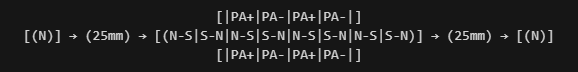
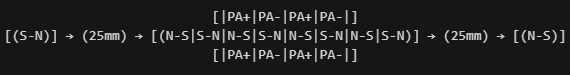
Upto simulation now

Changed region(s): [[0.0, 0.3889, 1.0, 0.6111], [0.3579, 0.6389, 0.6263, 0.8611], [0.3579, 0.1389, 0.6263, 0.3333]]

diff --git a/01_simulation/evaluator.py b/01_simulation/evaluator.py
@@ -19,7 +19,7 @@ from pyfea import Q, unit_validator, ampere, ohm, volt, second, meter, nullset
 
 from pyfea.domain.units import DynamicLoader
 from pyfea.solver.femm.domains.magnetostatic.solver import FEMMMagnetostaticSolver
-from pyfea.solver.solver_outputs import SolverOutputs, CircuitOptions
+from pyfea.solver.solver_outputs import SolverOutputs, CircuitOptions, ImageOptions
 
 from model.generator import AxialShakeGenerator
 
@@ -68,6 +68,7 @@ def simulate_rms_voltage(
     
     outputs = SolverOutputs()
     outputs.add_circuit(model.PHASE, CircuitOptions.flux_linkage)
+    outputs.add_image(ImageOptions.field_contour)
 
     results = magnetic.solve(outputs)
     old_flux_linkage = results[model.PHASE].flux_linkage

diff --git a/readme.md b/readme.md
@@ -82,3 +82,23 @@ This relationship drives one of the main trade-offs: increasing turns raises ind
   <img src="04_media/high_level_topology.png" alt="Generator high-level topology" style="max-width:600px;">
   <p><i>Figure 2: High level electrical machine topology</i></p>
 </div>
+
+> [!note]
+> `N-S` represents an axially magnetized permanent magnet pole. `PA` represents phase A, where `PA+` and `PA-` indicate opposite winding directions.
+
+The high-level topology in figure 2 was selected to enable oscillatory motion through magnetic restoring forces. The additional end poles act as magnetic springs, creating a restoring force when the armature approaches the limits of travel. This allows the armature to return towards the centre position after displacement.
+
+The alternating pole arrangement (`N-S|S-N`) was selected because the transition between opposing poles creates a rapid change in magnetic field along the z-axis, increasing the spatial rate of change of flux linkage:
+
+$$V \propto \frac{d\lambda}{dz}$$
+
+A pole pitch of `10 mm` was selected, matching the pole length and maintaining direct magnetic coupling between adjacent opposing poles. The topology uses four stator slots interacting with four active armature poles, with additional poles placed on each end of the armature to increase usable travel distance. This allows approximately `20 mm` of positive and negative armature displacement while maintaining magnetic coupling between the armature and stator.
+
+Maintaining slot overlap throughout the motion range produces a more consistent induced voltage waveform, where the primary amplitude is dominated by the mechanical velocity term:
+
+$$V \propto \frac{dz}{dt}$$
+
+The symmetric pole arrangement also reduces unwanted harmonic content compared with asymmetric topologies. Finally, no high-permeability materials were introduced into the armature or stator structure. The stator consists of copper windings, while the magnetic poles use `N52 Neodymium` permanent magnets.
+
+
+##
